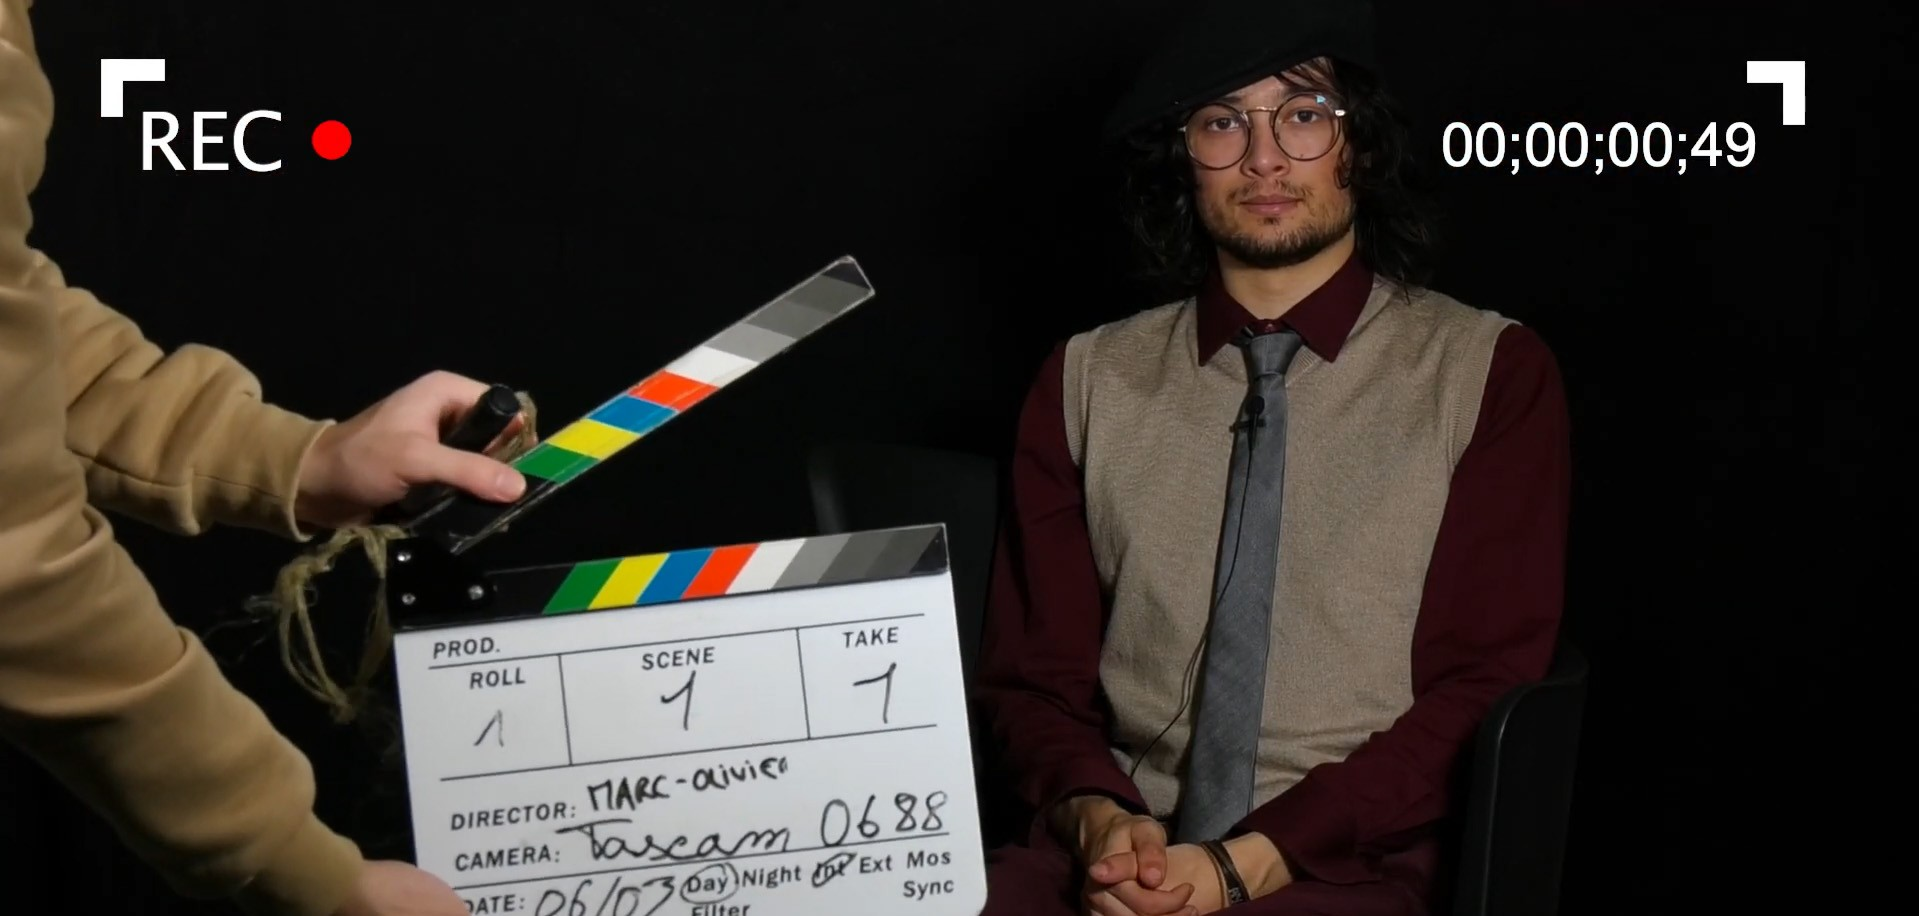
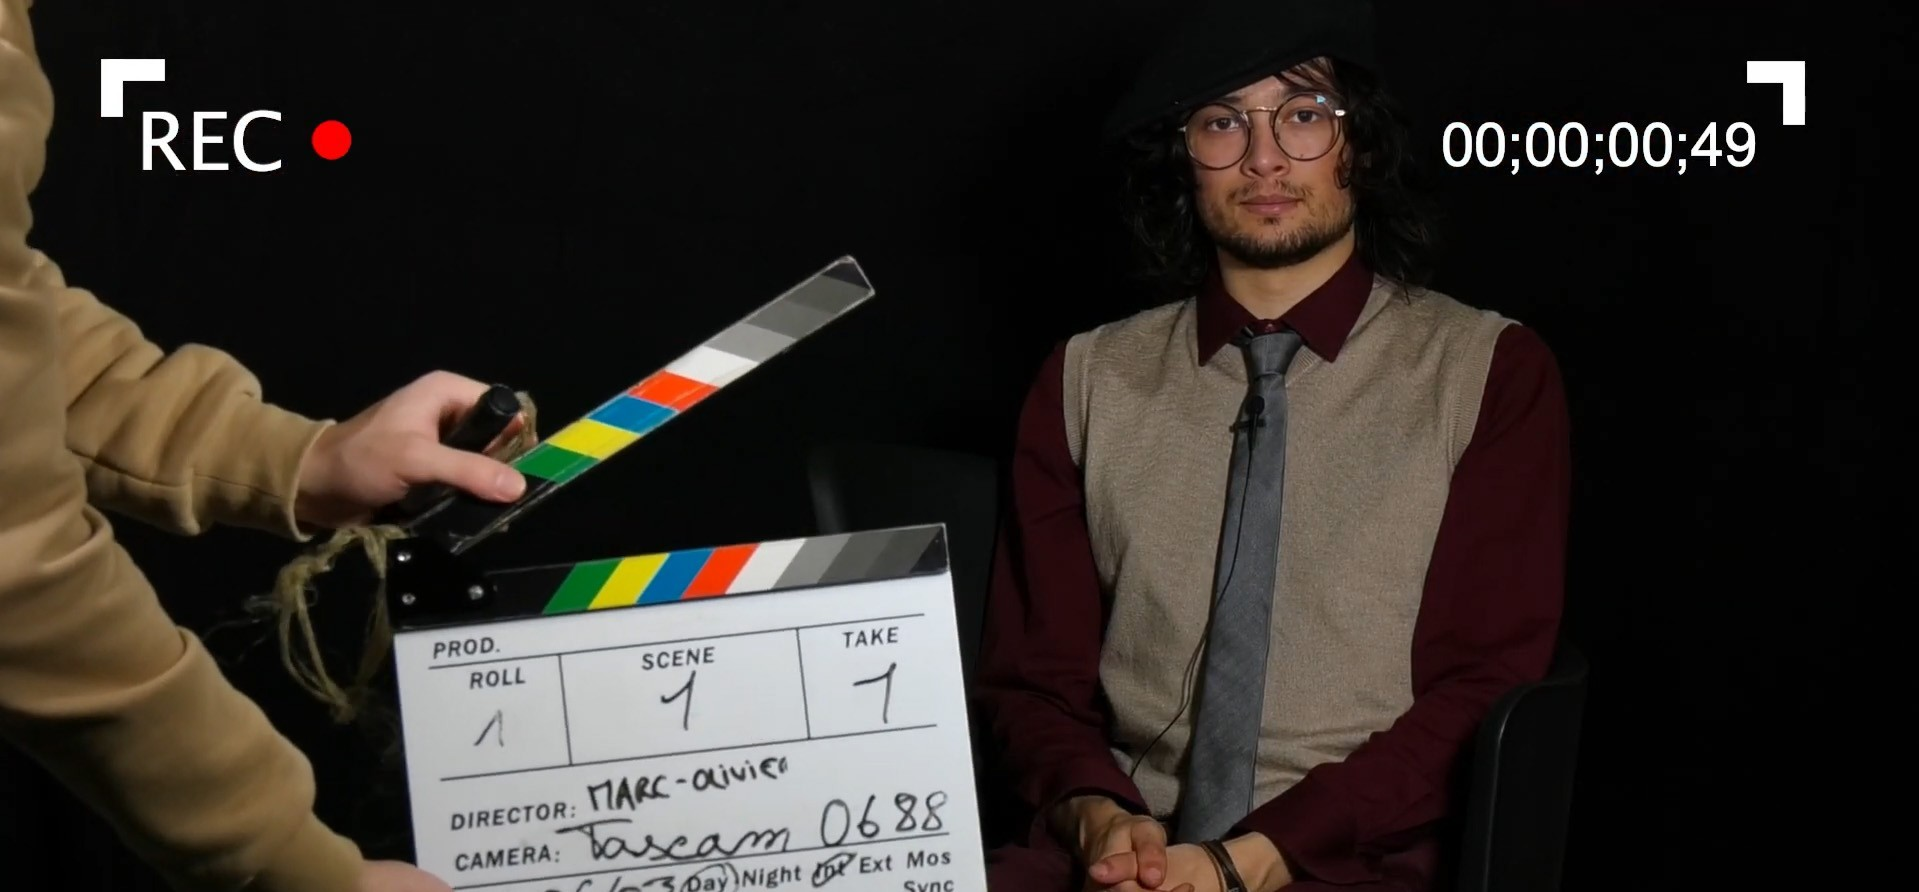
update

diff --git a/index.html b/index.html
@@ -77,16 +77,18 @@
         <!-- # intro
         ================================================== -->
         <section id="intro" class="s-intro target-section">
-
             <div class="row s-intro__content width-sixteen-col">
                 <div class="column lg-12 s-intro__content-inner grid-block grid-16">
-                    
-                    <div class="s-intro__content-text">
 
-                        <div class="s-intro__content-pretitle text-pretitle">Bonjour !</div>
+                    <!--
+                    <div class="s-intro__content-media2">                               
+                        <img src="images/photocouv.jpg" srcset="images/photocouv.jpg 1x" alt="">
+                    </div>
+                        -->
+                    <div class="s-intro__content-text">
+                        <div class="s-intro__content-pretitle text-pretitle">Esteban Beillonnet</div>
                         <h1 class="s-intro__content-title">
-                        Je suis Esteban Beillonnet - <br>
-                        voici mon portfolio...
+                        Vidéaste - Photographe
                         </h1>                            
 
                         <div class="s-intro__content-btns">
@@ -139,36 +141,199 @@
                         <h2 class="text-display-title">Mon parcours</h2>
                     </div> <!-- end section-header -->
 
+                    <div class="s-intro__content-pretitle text-pretitle">Je suis Esteban vidéaste et photographe freelance !</div>
                     <p class="attention-getter">
-                        Je m’appelle Esteban Beillonnet et je suis actuellement en troisième année de BUT MMI à l'IUT Nancy Charlemagne. Mon parcours a commencé à Bordeaux au sein du BUT information - communication à l'IUT Bordeaux Montaigne.
+                        J'ai commencé mon parcours en 2023 lorsque je me suis réorienté en <b>MMI</b>. <br>
+                        Durant ma formation, je travaille sur des projets variés comme la conception de <b>site web</b>, le montage de plusieurs <b>court-métrages</b>, la mise en place de <b>shooting photo</b>, l'ncrustation d'<b>effet spéciaux</b> ou encore de l'animation en <b>motion design</b>.
                         <br>
-                        En 2023, je me suis réorienté vers la formation MMI où j'entame aujourd'hui ma troisième année.
+                        Aujourd'hui diplomé en BUT Métiers du <b>multimédia et de l'internet</b>, je réalise vos projets vidéos et photo sur mesure.
+                        
+                        Je vous accompagne dans vos projets de l'idée au tournage, jusqu'au montage.
                     </p>
 
-                    <p class="attention-getter">
-                        En MMI je travaille les métiers du multimédia et de l'internet, je participe à des projets variés sur des sujets divers comme la conception de site web, le montage d'un court- métrage avec des effets spéciaux et de l'animation ou encore un jeu vidéo !
-                        <br>
-                        Suivez mon parcours et mes créations à travers ce site où je mettrai à jour mon portfolio. 
-                    </p>
-
+                    <div class="row s-about__content">
+                        <div class="column xl-12">    
+                            
+                            <div class="section-header" data-num="02">
+                                <h2 class="text-display-title">Mes stages</h2>
+                            </div> <!-- end section-header -->
+                            <div class="s-intro__content-pretitle text-pretitle">Au fil de ma formation, j'ai eu la chance de travailler en stages dans ses entreprises !</div>
+                            <br>
+                            
+                            <section class="test1">
+                                <div class="test2">
+                                    <img src="images/comllogo.jpg" alt="">
+                                    <p class="test3">En première année, j'ai réalisé un stage en communication chez CoM'L. Ce premier stage m'a permis d'appréhender le monde du travail et de la communication. Déjà à ce moment-là, je trouvais le moyen de travailler sur de la vidéo, avec un montage et une animation de logo.</p>
+                                </div>
+                                <div class="test2">
+                                    <img src="images/DSSANTELOGO.png" alt="">
+                                    <p class="test3">Mon stage de deuxième année m'a permis de confirmer ma passion pour la vidéo. J'ai eu la chance de pouvoir travailler sur un projet d'animation particulièrement ambitieux et sur un sujet utile : la santé. Ce stage m'a non seulement donné le goût de la production à long terme, mais aussi l'envie de travailler pour une cause.</p>
+                                </div>
+                                <div class="test2">
+                                    <img src="images/NMLOGO.jpg" alt="">
+                                    <p class="test3">En troisième année, j'ai eu l'occasion de continuer sur ma lancée de travailler sur une mission à impact. Cette fois-ci, aux côtés de personnes en situation de handicap et âgées, j'ai produit du contenu vidéo et photographique pendant presque 6 mois. Une expérience qui me marquera longtemps. </p>
+                                </div>
+                  </section>          
                 </div> <!--end column -->
             </div> <!--end s-about__content -->
-            
+
         </section> <!-- end s-about -->   
-
-
 
         <!-- # works
         ================================================== -->
         <section id="works" class="s-works target-section">
             <div class="row">
                 <div class="column xl-12">
-                    <div class="section-header" data-num="02">
+                    <div class="section-header" data-num="03">
                         <h2 class="text-display-title">Mes créations vidéos</h2>
                     </div> <!-- end section-header -->
                 </div>
             </div>
+
             <div class="row folio-entries">
+
+                <div class="column entry">
+                    <a href="images/NMPUB.png" class="entry__link glightbox" data-glightbox="title: Court métrage; description: .entry__desc-22">
+                        <div class="entry__thumb">
+                            <a href="https://youtu.be/9_F5acWybPY?si=vFxz4ZGt-hffDQVs"><img src="images/NMPUB.png" srcset="images/NMPUB.png 1x" alt=""></a>
+                        </div>
+                        <div class="entry__info">
+                            <h4 class="entry__title">Montage video</h4>
+                            <div class="entry__cat">Premiere pro</div>
+                        </div>
+                    </a>
+    
+                    <div class="glightbox-desc entry__desc-22">
+                        <p>
+                        <a href="https://youtu.be/9_F5acWybPY?si=vFxz4ZGt-hffDQVs">Publicité Nous Mêmes.
+                        </p>
+                    </div>
+                </div>
+
+                <div class="column entry">
+                    <a href="images/NMI.png" class="entry__link glightbox" data-glightbox="title: Court métrage; description: .entry__desc-22">
+                        <div class="entry__thumb">
+                            <a href="https://youtu.be/8Qgv8wCkI6Q"><img src="images/NMI.png" srcset="images/NMI.png 1x" alt=""></a>
+                        </div>
+                        <div class="entry__info">
+                            <h4 class="entry__title">Montage video</h4>
+                            <div class="entry__cat">Premiere pro</div>
+                        </div>
+                    </a>
+    
+                    <div class="glightbox-desc entry__desc-22">
+                        <p>
+                        <a href="https://youtu.be/8Qgv8wCkI6Q">Vidéo retour sur l'inauguration de Nous Mêmes.
+                        </p>
+                    </div>
+                </div>
+
+                <div class="column entry">
+                    <a href="images/NMNOLAN.png" class="entry__link glightbox" data-glightbox="title: Court métrage; description: .entry__desc-22">
+                        <div class="entry__thumb">
+                            <a href="https://youtu.be/ST-x49kqOoo"><img src="images/NMNOLAN.png" srcset="images/NMNOLAN.png 1x" alt=""></a>
+                        </div>
+                        <div class="entry__info">
+                            <h4 class="entry__title">Montage video</h4>
+                            <div class="entry__cat">Premiere pro</div>
+                        </div>
+                    </a>
+    
+                    <div class="glightbox-desc entry__desc-22">
+                        <p>
+                        <a href="https://youtu.be/ST-x49kqOoo">Vidéo retour sur évènement de la sortie au GP MOTO FRANCE !
+                        </p>
+                    </div>
+                </div>
+
+                <div class="column entry">
+                    <a href="images/NMGP.png" class="entry__link glightbox" data-glightbox="title: Court métrage; description: .entry__desc-22">
+                        <div class="entry__thumb">
+                            <a href="https://youtu.be/bg2h4b5XnfA"><img src="images/NMGP.png" srcset="images/NMGP.png 1x" alt=""></a>
+                        </div>
+                        <div class="entry__info">
+                            <h4 class="entry__title">Montage video</h4>
+                            <div class="entry__cat">Premiere pro</div>
+                        </div>
+                    </a>
+    
+                    <div class="glightbox-desc entry__desc-22">
+                        <p>
+                        <a href="https://youtu.be/bg2h4b5XnfA">Vidéo retour sur évènement de la sortie au GP MOTO FRANCE !
+                        </p>
+                    </div>
+                </div>
+
+            <div class="column entry">
+                <a href="images/NMQ.png" class="entry__link glightbox" data-glightbox="title: Court métrage; description: .entry__desc-22">
+                    <div class="entry__thumb">
+                        <a href="https://youtu.be/NTnr3SnsdF8"><img src="images/NMQ.png" srcset="images/NMQ.png 1x" alt=""></a>
+                    </div>
+                    <div class="entry__info">
+                        <h4 class="entry__title">Montage video</h4>
+                        <div class="entry__cat">Premiere pro</div>
+                    </div>
+                </a>
+
+                <div class="glightbox-desc entry__desc-22">
+                    <p>
+                    <a href="https://youtu.be/NTnr3SnsdF8">Vidéo compilation des évènement d'une semaine à la coloc de chez Nous Mêmes !
+                    </p>
+                </div>
+            </div>
+                
+                <div class="column entry">
+                    <a href="images/NM24.png" class="entry__link glightbox" data-glightbox="title: Court métrage; description: .entry__desc-22">
+                        <div class="entry__thumb">
+                            <a href="https://youtu.be/T3uBsoz2-CQ"><img src="images/NM24.png" srcset="images/NM24.png 1x" alt=""></a>
+                        </div>
+                        <div class="entry__info">
+                            <h4 class="entry__title">Montage video</h4>
+                            <div class="entry__cat">Premiere pro</div>
+                        </div>
+                    </a>
+
+                    <div class="glightbox-desc entry__desc-22">
+                        <p>
+                        <a href="https://youtu.be/T3uBsoz2-CQ">Vidéo retour sur évènement réalisé lors de mon stage chez Nous Mêmes habitats. 
+                        </p>
+                    </div>
+                </div>
+
+                <div class="column entry">
+                    <a href="images/NMPDL.png" class="entry__link glightbox" data-glightbox="title: Court métrage; description: .entry__desc-22">
+                        <div class="entry__thumb">
+                            <a href="https://youtu.be/2MXpfVLfQjw"><img src="images/NMPDL.png" srcset="images/NMPDL.png 1x" alt=""></a>
+                        </div>
+                        <div class="entry__info">
+                            <h4 class="entry__title">Montage video</h4>
+                            <div class="entry__cat">Premiere pro</div>
+                        </div>
+                    </a>
+
+                    <div class="glightbox-desc entry__desc-22">
+                        <p>
+                        <a href="https://youtu.be/2MXpfVLfQjw">Vidéo retour sur évènement réalisé lors de mon stage chez Nous Mêmes habitats. 
+                        </p>
+                    </div>
+                </div>
+                <div class="column entry">
+                    <a href="images/ThumbmailNMJDC.png" class="entry__link glightbox" data-glightbox="title: Court métrage; description: .entry__desc-22">
+                        <div class="entry__thumb">
+                            <a href="https://youtu.be/HJg53cnJSSU"><img src="images/ThumbmailNMJDC.png" srcset="images/ThumbmailNMJDC.png 1x" alt=""></a>
+                        </div>
+                        <div class="entry__info">
+                            <h4 class="entry__title">Montage video</h4>
+                            <div class="entry__cat">Premiere pro</div>
+                        </div>
+                    </a>
+
+                    <div class="glightbox-desc entry__desc-22">
+                        <p>
+                        <a href="https://youtu.be/HJg53cnJSSU">Vidéo retour sur évènement réalisé lors de mon stage chez Nous Mêmes habitats.
+                        </p>
+                    </div>
+                </div>
                 <div class="column entry">
                     <a href="images/VideoMappingthumbmail.png" class="entry__link glightbox" data-glightbox="title: Court métrage; description: .entry__desc-22">
                         <div class="entry__thumb">
@@ -480,7 +645,7 @@ La vidéo a pour objectif de présenter les services de l'entreprise pour la pro
             </div>
             <div class="row">
                 <div class="column xl-12">
-                    <div class="section-header" data-num="03">
+                    <div class="section-header" data-num="04">
                         <h2 class="text-display-title">Mes Créations graphiques</h2>
                     </div> <!-- end section-header -->
                 </div>

diff --git a/css/styles.css b/css/styles.css
@@ -3405,8 +3405,13 @@ td:last-child {
     color        : var(--color-1);
 }
 
+
+.s-intro__content-media2{
+
+}
+
 .s-intro__content-title {
-    font-size     : clamp(3.8rem, 4.8vw, 8.8rem);
+    font-size     : clamp(3.8rem, 3.8vw, 8.8rem);
     line-height   : 1.045;
     letter-spacing: -0.025em;
     margin-top    : 0;
@@ -4442,4 +4447,20 @@ td:last-child {
     .ss-go-top {
         right: -2rem;
     }
+}
+
+.test1 {
+    display: flex; 
+    flex-flow: row wrap;
+
+}
+.test2 {
+    display: flex; 
+    flex-direction: row;
+    justify-content: center;
+    align-items: center;
+}
+
+.test3 {
+    padding: 50px;
 }
